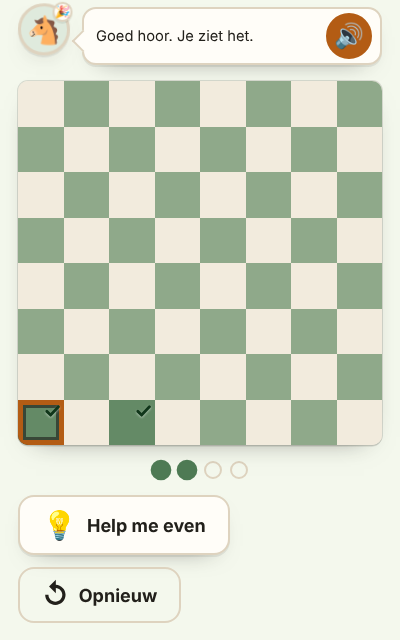
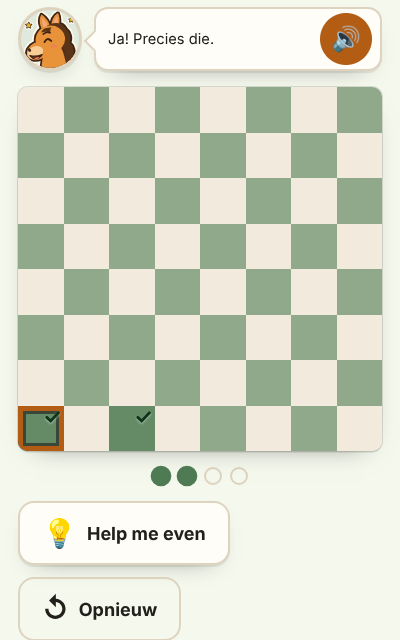
37e review verwerkt: Pip overal getekend, wapenrij gecentreerd, Pip blij bij opdracht, verse schermafbeeldingen

diff --git a/src/diploma/DiplomaScherm.tsx b/src/diploma/DiplomaScherm.tsx
@@ -1,7 +1,7 @@
 'use client'
 
 import { useEffect, useState } from 'react'
-import { WereldWapen } from '@/ui/beelden'
+import { WereldWapen, pipBeeld } from '@/ui/beelden'
 import Link from 'next/link'
 import { Confetti } from '@/ui/Confetti'
 import { DeelKnop } from '@/ui/DeelKnop'
@@ -133,7 +133,10 @@ export function DiplomaScherm({ soort }: { soort: DiplomaSoort }) {
           ))}
         </div>
         <p className={styles.datum}>{datum}</p>
-        <p className={styles.handtekening}>🐴 Pip het schaakpaardje</p>
+        <p className={styles.handtekening}>
+          {/* eslint-disable-next-line @next/next/no-img-element -- statische export, SVG */}
+          <img src={pipBeeld('trots')} alt="" width={40} height={40} style={{ verticalAlign: 'middle' }} /> Pip het schaakpaardje
+        </p>
       </article>
 
       <div className={`${styles.knoppen} ${styles.verbergBijPrinten}`}>

diff --git a/src/app/not-found.tsx b/src/app/not-found.tsx
@@ -1,5 +1,6 @@
 import type { Metadata } from 'next'
 import Link from 'next/link'
+import { pipBeeld } from '@/ui/beelden'
 
 export const metadata: Metadata = {
   title: 'Deze pagina bestaat niet',
@@ -21,7 +22,8 @@ export default function NietGevonden() {
     <main className="page">
       <div className="stack" style={{ maxWidth: 520, margin: '0 auto', textAlign: 'center', alignItems: 'center', gap: 18 }}>
         <span aria-hidden="true" style={{ fontSize: 64, lineHeight: 1 }}>
-          🐴
+          {/* eslint-disable-next-line @next/next/no-img-element -- statische export, SVG */}
+          <img src={pipBeeld('verrast')} alt="" width={96} height={96} style={{ display: 'inline-block' }} />
         </span>
         <h1 style={{ fontSize: '1.7rem', margin: 0 }}>Deze pagina bestaat niet</h1>
         <p style={{ margin: 0 }}>

diff --git a/src/app/spelen/page.tsx b/src/app/spelen/page.tsx
@@ -1,6 +1,7 @@
 'use client'
 
 import { useState } from 'react'
+import { pipBeeld } from '@/ui/beelden'
 import Link from 'next/link'
 import { Kop } from '@/ui/Kop'
 import { Pip } from '@/ui/Pip'
@@ -82,7 +83,8 @@ export default function Spelen() {
               style={{ justifyContent: 'flex-start', textAlign: 'left', padding: '14px 18px', minHeight: 66 }}
             >
               <span style={{ fontSize: 30 }} aria-hidden="true">
-                🐴
+                {/* eslint-disable-next-line @next/next/no-img-element -- statische export, SVG */}
+                <img src={pipBeeld('blij')} alt="" width={40} height={40} style={{ display: 'inline-block' }} />
               </span>
               <span style={{ flex: 1 }}>Nog {verborgen} tegenstanders die beter nadenken</span>
             </button>

diff --git a/src/app/error.tsx b/src/app/error.tsx
@@ -1,6 +1,7 @@
 'use client'
 
 import { useEffect, useState } from 'react'
+import { pipBeeld } from '@/ui/beelden'
 
 /**
  * Wat een kind ziet als er iets stukgaat.
@@ -44,7 +45,8 @@ export default function Fout({ error, reset }: { error: Error; reset: () => void
     <main className="page">
       <div className="card stack center" style={{ maxWidth: 460, margin: '10vh auto' }}>
         <span style={{ fontSize: 64 }} aria-hidden="true">
-          🐴
+          {/* eslint-disable-next-line @next/next/no-img-element -- statische export, SVG */}
+          <img src={pipBeeld('denkt')} alt="" width={96} height={96} style={{ display: 'inline-block' }} />
         </span>
         <h1 style={{ fontSize: '1.3rem' }}>Oeps, Pip struikelde even</h1>
         <p className="muted">

diff --git a/src/app/over/page.tsx b/src/app/over/page.tsx
@@ -1,5 +1,6 @@
 import type { Metadata } from 'next'
 import type { ReactNode } from 'react'
+import { pipBeeld } from '@/ui/beelden'
 import Link from 'next/link'
 import { ALLE_LESSEN, WERELDEN } from '@/content'
 import { MINISPELLEN } from '@/play/minispellen'
@@ -467,7 +468,8 @@ export default function Over() {
 
       <section className={s.slot}>
         <span aria-hidden="true" className={s.pipkop}>
-          🐴
+          {/* eslint-disable-next-line @next/next/no-img-element -- statische export, SVG */}
+          <img src={pipBeeld('blij')} alt="" width={56} height={56} style={{ display: 'inline-block' }} />
         </span>
         <h2>Zin om te beginnen?</h2>
         <p style={{ maxWidth: '40ch', margin: 0 }}>

diff --git a/src/lesson/LessonPlayer.tsx b/src/lesson/LessonPlayer.tsx
@@ -237,7 +237,7 @@ export function LessonPlayer({
         const eerste = startOpgave(lijst[0])
         setStand(eerste)
         setZin('vraag' in lijst[0] ? lijst[0].vraag : '')
-        setStemming('denkt')
+        setStemming('blij')
       }
     },
     [les, bewaarHervatpunt],
@@ -295,7 +295,8 @@ export function LessonPlayer({
       setOpgaveIndex(opgaveIndex + 1)
       setStand(startOpgave(nieuw))
       setZin('vraag' in nieuw ? nieuw.vraag : '')
-      setStemming('denkt')
+      // 'blij', niet 'denkt': bij een opdracht las dat als "Pip weet het zelf niet" (37e review).
+      setStemming('blij')
     } else {
       volgendeFase()
     }

diff --git a/src/lesson/LessonPlayer.module.css b/src/lesson/LessonPlayer.module.css
@@ -259,7 +259,7 @@
 }
 @media (prefers-reduced-motion: reduce) { .wereldAfWapen { animation: none; } }
 .wereldAfKop { font-size: clamp(1.6rem, 6vw, 2.2rem); margin: 0; }
-.wapenRij { display: flex; flex-wrap: wrap; justify-content: center; gap: 6px; margin-top: 6px; max-width: 340px; }
+.wapenRij { display: flex; flex-wrap: wrap; justify-content: center; gap: 6px; margin: 6px auto 0; max-width: 340px; }
 /* 8 + 7 in plaats van 7 + 7 + 1: één los wapen onderaan oogde als een fout (37e review). */
 .wapenKlein {
   display: grid; place-items: center; width: 36px; height: 36px; border-radius: 50%;

diff --git a/docs/reviews/2026-11-04-zevenendertigste-review.md b/docs/reviews/2026-11-04-zevenendertigste-review.md
@@ -1,0 +1,48 @@
+# Zevenendertigste review: eigen illustraties in plaats van emoji (2026-11-04)
+
+Fase: "volgende niveau", ronde 12. De beeldtaal is door Kaj gekozen (1b) en de proef is goedgekeurd. Branch `volgende-niveau`. De reviewers zijn rechtstreeks gestart.
+
+**Oordeel na verwerking: GO voor deze fase.** `check` en de doorloop zijn groen. De doorloop controleert nu ook offline dat er geen kapotte plaatjes zijn. Een nieuwe test (`tests/illustraties.test.ts`) bewaakt dat elk wapen, elke strook en elke Pip bestaat.
+
+## Wat er gebouwd is
+- De illustrator-agent maakte 59 SVG's (166 kB) met twee generatoren: `scripts/pip-tekenen.py` en `scripts/werelden-tekenen.py`. Pip heeft 7 stemmingen, elk ook als versie voor de knop. Er zijn 15 wapens en 30 kaartstroken (licht en donker).
+- Pip in de knop, de wapens op alle wereldplekken, de kaartstroken onder de open werelden en Pip in de held, op de kaart, de foutpagina's, /over, /spelen en het diploma zijn nu tekeningen. De speldjes (🎉 💭) zijn weg.
+- Delen met een vast plaatje (besluit Kaj): bij wereld af het wapen, bij het diploma `og.png`.
+
+## Schaakmeester
+- **Bijna blokkerend: het bordje in alle 15 wapens had rechtsonder een donker veld.** Dat is het omgekeerde van wat wereld 0 leert. *Opgelost:* het patroon is omgedraaid, en de generator weigert nu een bordje met een donker veld rechtsvoor (assert).
+- **Klein: Paardenstal heeft geen paard in het wapen.** *Niet opgelost:* dat gaat mee in de volgende illustratieronde.
+- Pip is herkenbaar als paard. Er staat niets vóór zijn wereld: de vlag hoort bij Matklif, de koning bij Eindspelduinen.
+
+## Conversie (startpagina 7,5 · les 7,5 · wereld af 8 · kaart 8)
+- **Belangrijk: de schermafbeeldingen op de startpagina toonden de oude emoji-Pip.** *Opgelost:* ze zijn opnieuw opgenomen (`scripts/schermen.mjs`), en `og.png` is ook vernieuwd.
+- **Belangrijk voor het cijfer: twee stijlen door elkaar** (fase-, halte- en knop-iconen zijn nog emoji). *Volgende fase,* zie het scorebord.
+- **Klein: de wapenrij stond 7+7+1.** *Opgelost:* nu 8+7, en de wapens die nog niet af zijn, zijn minder vervaagd.
+- **Klein: de kaartstrook was bovenaan afgekapt.** *Opgelost:* 120 px hoog en een uitsnede op 70%.
+- **Klein: LCP 2,3–2,6 s.** *Opgelost:* de schermafbeeldingen op de startpagina laden nu lui, zonder fetchPriority high. Dat was de waarschijnlijke concurrent; de illustraties zijn nergens het LCP-element.
+
+## Layout (startpagina 7 · les 6,5 · wereld af 7,5 · kaart 7/8)
+- **Belangrijk: verouderde schermafbeeldingen.** *Opgelost,* zie Conversie.
+- **Belangrijk: de wapenrij stond op desktop links.** *Opgelost:* gecentreerd.
+- **Belangrijk: nog veel emoji, waaronder losse 🐴 als tweede Pip.** *Gedeeltelijk:* alle 🐴 die voor Pip staan zijn vervangen. De rest gaat naar de volgende illustratieronde: halte-iconen, 🔒, 🏆, fase-iconen, 🔔 ⚙ 💡 🔊, 🏅 💌, de startpunten en de 🐴 als avatar.
+- **Klein: Pip op een plankje dat niet leest, de knop knipt oortjes af, een wit vlekje bij juicht, de kaartstrook schaalt mee op brede schermen, kleine wapens tonen weinig.** *Volgende illustratieronde.*
+- **Klein: Pip "denkt" bij een opdracht.** *Opgelost:* bij de start van een opgave is hij nu "blij". "Denkt" blijft voor de hint.
+
+## Codebase
+- De generatoren zijn reproduceerbaar (byte voor byte gelijk). Ook de SVG-veiligheid, basePath en bundel zijn in orde.
+- **Belangrijk: de illustraties zaten niet in de offlinevoorraad, waardoor Pip offline een lege cirkel was.** *Opgelost:* alle Pips, wapens en de stroken van wereld 0–2 staan in VOORAF, `/illustraties/` is cache-first, en de offlineregel in de doorloop controleert op kapotte plaatjes.
+- **Belangrijk: het commentaar beloofde een controle die niet bestond.** *Opgelost* met `tests/illustraties.test.ts` (22 gevallen).
+- **Klein: Pip flitste even leeg bij een nieuwe stemming.** *Opgelost:* de 7 knopvarianten worden vooraf geladen.
+- **Klein: dode CSS (`.badge`, `.heuvels`).** *Weggehaald.*
+- **Klein: de donkere strook volgt alleen het systeemthema.** *Gedocumenteerd:* `data-theme` wordt nergens gezet.
+- **Klein: de generator is broos bij een nieuwe wereld.** *Gedekt:* de test faalt luid als er een tekening ontbreekt.
+
+## Wow-cijfers (ronde 12)
+| scherm | layout | conversie | ronde 11 |
+|---|---|---|---|
+| Startpagina | 7 | 7,5 | 7,5 / 7,5 |
+| Eerste les | 6,5 | 7,5 | 6,5 / 7 |
+| Wereld af | 7,5 | 8 | 7 / 7 |
+| Wereldkaart | 7 / 8 | 8 | 7 / 7,5 |
+
+De cijfers zijn gegeven vóór de verwerking (oude schermafbeeldingen, emoji-Pip). Beide reviewers noemen hetzelfde: eerst één tekenstijl tot in het kleinste icoon.

diff --git a/docs/volgende-niveau.md b/docs/volgende-niveau.md
@@ -30,7 +30,7 @@ Schermafbeeldingen: `docs/volgende-niveau/voor-*.png`.
 | Tik-reactie < 100 ms | ronde 10: goed veld 31 ms, fout veld 31 ms, hulp 13 ms (zichtbare verandering, na de verf); bewaakt in doorloop | 🟢 |
 | Beloningsmoment per wereld | ronde 3: eigen held-kaart (wapen 128 px, confetti, wapenrij), diploma-voorproef | 🟢 (wow nog te meten) |
 | `prefers-reduced-motion` | ronde 10: elke animatie stopt na één keer; doorloop: geen eindeloze animaties op /, les, kaart, minispel; golf/vonk aan én uit bewaakt | 🟢 |
-| Wow-toets ≥ 9 (4 schermen, 2 reviewers) | ronde 11 (alle vier opnieuw): start 7,5/7,5, les 6,5/7, wereld af 7/7, kaart 7/7,5 — vast op beeldtaal, zie vraag 1. ronde 6: start 7/8. ronde 5: kaart 6,5/7,5. ronde 4: eerste les 7/7. ronde 3: wereld af 5/7, diploma 7,5/8 (vóór verbouwing). ronde 2: start 6/7, les 6,5/6, diploma 3/–, kaart 5/6,5 (zie 27e review) | 🔴 |
+| Wow-toets ≥ 9 (4 schermen, 2 reviewers) | ronde 12 (illustraties): start 7/7,5, les 6,5/7,5, wereld af 7,5/8, kaart 7–8/8. ronde 11 (alle vier opnieuw): start 7,5/7,5, les 6,5/7, wereld af 7/7, kaart 7/7,5 — vast op beeldtaal, zie vraag 1. ronde 6: start 7/8. ronde 5: kaart 6,5/7,5. ronde 4: eerste les 7/7. ronde 3: wereld af 5/7, diploma 7,5/8 (vóór verbouwing). ronde 2: start 6/7, les 6,5/6, diploma 3/–, kaart 5/6,5 (zie 27e review) | 🔴 |
 | OG-afbeelding per pagina | ronde 9: 28 eigen plaatjes (werelden, schaakregels, schaakclub), lessen delen hun wereld; build controleert 206 verwijzingen. Nog te testen: vierkante uitsnede in echte WhatsApp | 🟢 |
 | Deelknop op trotse momenten | ronde 3: op wereld af en diploma, alleen link + vaste zin, anonieme telling `Gedeeld`; doorloop bewaakt share én kopieer zonder naam | 🟢 |
 | Installeerbaar | manifest + service worker aanwezig | 🟢 |
@@ -38,17 +38,11 @@ Schermafbeeldingen: `docs/volgende-niveau/voor-*.png`.
 | `npm run check` + doorloop groen | ronde 2: groen (doorloop 23 regels) | 🟢 |
 | `/release-review` go | 27e review: go voor deze fase, na verwerking | 🟢 |
 
-## Rangschikking (wow per uur werk), bijgewerkt na ronde 4
+## Rangschikking, na ronde 12
 
-Gedaan: bord liggend (r2), trots moment + delen (r3), eerste les levendiger (r4), wereldkaart (r5).
-
-1. ~~Wereldkaart~~ (r5). Rest: één doorlopend landschap met slingerpad, Pip stuitert op de halte, alles-af-toestand.
-2. ~~Startpagina-held~~ (r6). Rest: tikbaar paard in de held.
-3. ~~Raakvlakken~~ (r7).
-4. ~~Wereld 0–2 offline~~ (r8).
-5. ~~OG per pagina~~ (r9).
-6. ~~Tik-reactie~~ (r10).
-7. Pip leeft mee in de les (springt bij goed veld, groter in zijkolom, huppelt het bord op) — 29e review.
+1. **Illustratieronde 2: één stijl tot in het kleinste icoon.** Fase-iconen (👀 🤝 🙋 ⭐), halte-iconen en 🔒 op de kaart, 🏆 🏅 💌, de knoppen 🔔 ⚙ 💡 🔊, de drie punten op de startpagina en de 🐴 als standaardavatar. Daarnaast: Pip zonder plankje op de halte, marge in de knopvarianten, het vlekje bij juicht, een paard in het wapen van Paardenstal, en kaartstroken die op brede schermen niet opblazen.
+2. **Pip groot in juichmomenten:** wereld af en de kennismaking in de kijkfase.
+3. Pip in de les die naar het veld wijst.
 
 ## Logboek
 - Ronde 1: nulmeting. Niets aan de app veranderd.
@@ -62,3 +56,4 @@ Gedaan: bord liggend (r2), trots moment + delen (r3), eerste les levendiger (r4)
 - Ronde 9: deelplaatjes per wereld, schaakregel en schaakclub; pat-uitleg aangescherpt; basePath-correcte og:image met buildcontrole.
 - Ronde 10: gevoel — tik-reactie gemeten en bewaakt, minder beweging zonder eindeloze animaties.
 - Ronde 11: speelbaar paard in de held; alle vier wow-schermen opnieuw gemeten. Loop gestopt: beeldtaal is een keuze voor Kaj (vraag 1).
+- Ronde 12: eigen illustraties (Pip, wapens, kaartstroken) ingebouwd; bordje in wapens rechtsonder licht; offline en test op bestaan.
